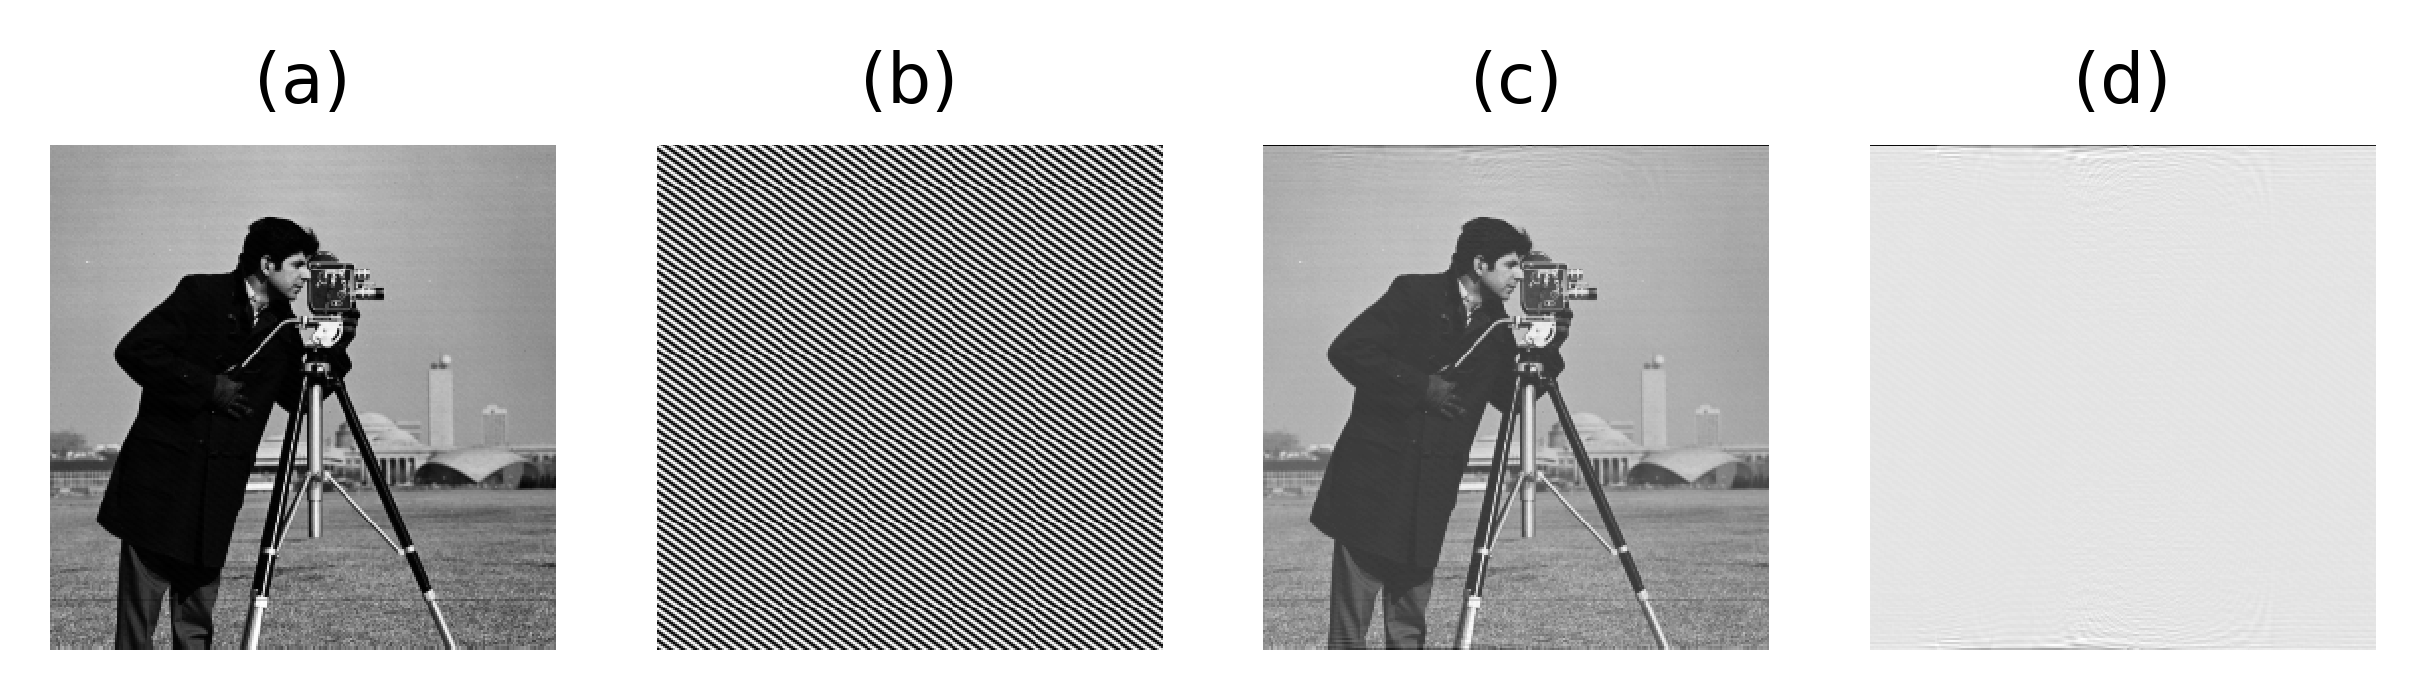
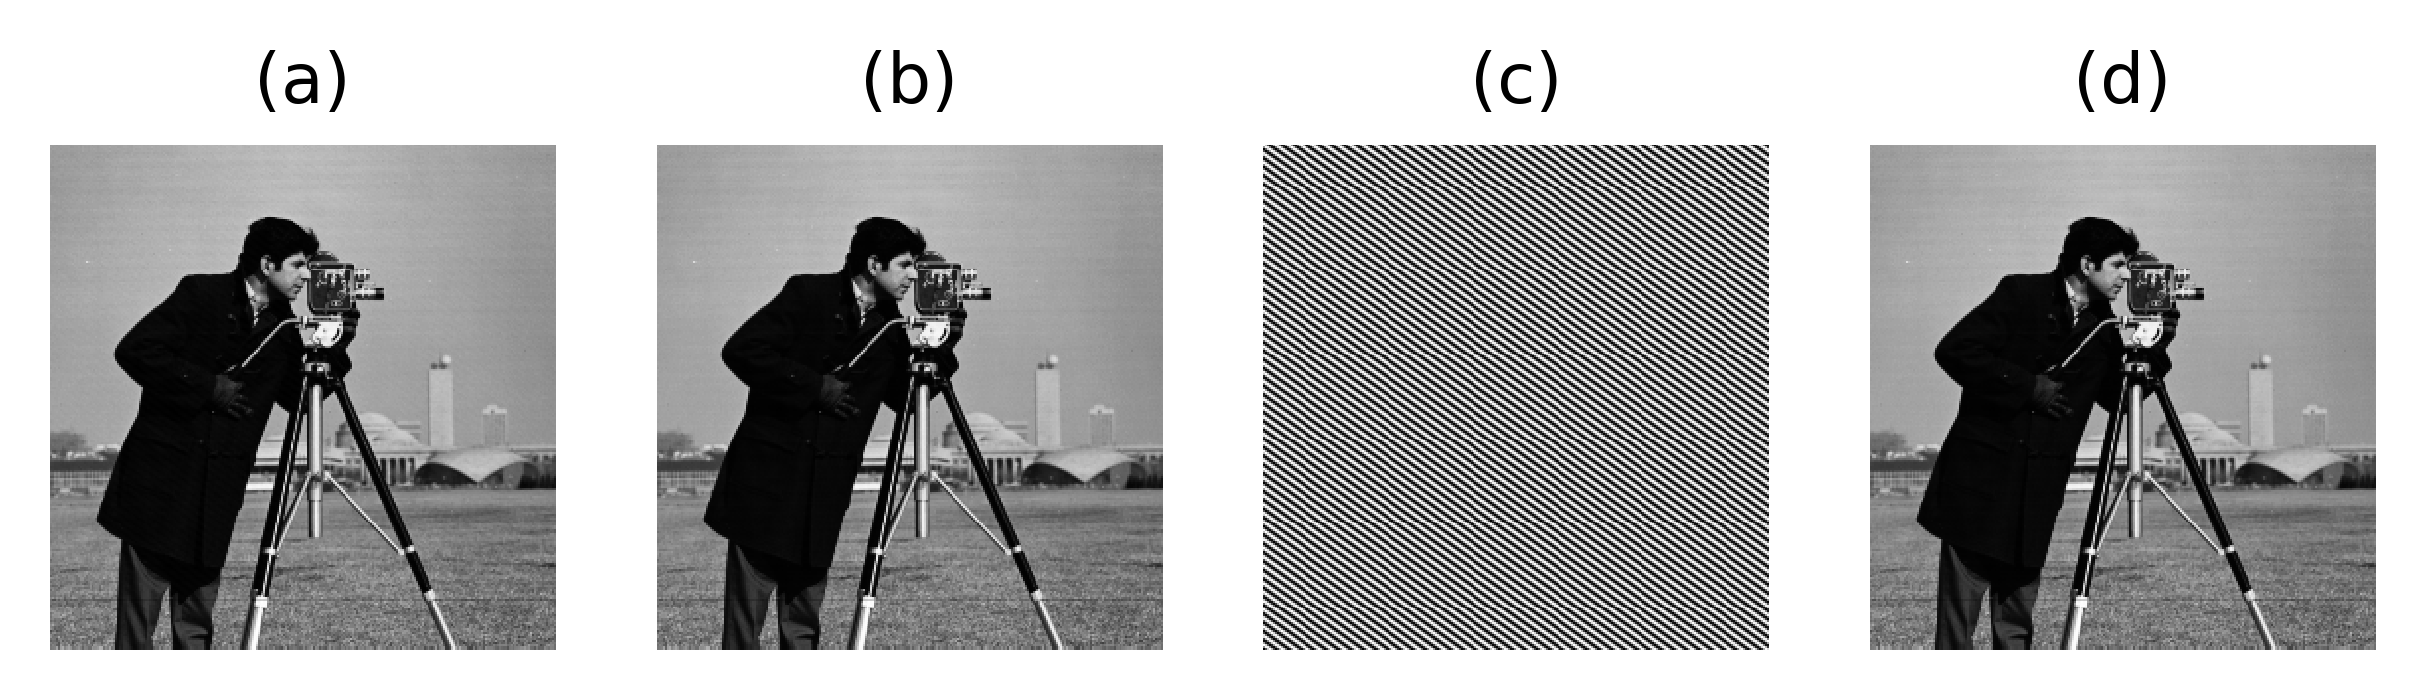
all done

diff --git a/src/main.py b/src/main.py
@@ -334,6 +334,10 @@ def addValue(img, func):
 
     return res
 
+def function(img, v,w, a = 1):
+    addcos = coswave(a,v,w)
+    return addValue(img, addcos.func)    
+
 
 def removePlanarWaves(img,v,w, a=1):
     '''
@@ -373,7 +377,7 @@ def removePlanarWaves(img,v,w, a=1):
     powerRes = np.subtract(powerImg, powerWaves)
     
     # revert transformation
-    result = fftpack.ifft(powerRes)
+    result = fftpack.ifft2(powerRes)
     
     return result
     
@@ -391,7 +395,7 @@ def exer3(path):
     '''
        
     # parameters used in the a * cos(v*x+ w*y) function in the transformation
-    a = 10 
+    a = 1 
     v = 30
     w = 1
          
@@ -445,22 +449,26 @@ def exer3(path):
 
     removedPlanar = removePlanarWaves(imgtransformed, v, w)
 
+
+    realRemovedPlanarorig = np.real(removedPlanar)
+
+
     realRemovedPlanar = np.real(removedPlanar)
 
     print(realRemovedPlanar)
 
     lower0= realRemovedPlanar - (np.min(realRemovedPlanar))
 
-    realRemovedPlanar = 255 * (lower0/np.max(lower0))
+    realRemovedPlanar = (lower0/np.max(lower0))
 
     print(realRemovedPlanar)
 
+    realRemovedPlanar = realRemovedPlanarorig
 
-    diffbefore = imgtransformed - img
-
+    
     diffwaves =  imgtransformed - realRemovedPlanar
  
-    difforiginal = diffwaves - img
+    #difforiginal = img - diffwaves
 
     
     
@@ -470,13 +478,13 @@ def exer3(path):
     sip3.plotImage(gca(), imgtransformed, "(a)", gray=True)
 
     subplot(1,4,2)
-    sip3.plotImage(gca(), diffbefore, "(b)", gray=True)
+    sip3.plotImage(gca(), realRemovedPlanarorig, "(b)", gray=True)
 
     subplot(1,4,3)
     sip3.plotImage(gca(), diffwaves, "(c)", gray=True)
 
     subplot(1,4,4)
-    sip3.plotImage(gca(), difforiginal, "(d)", gray=True)
+    sip3.plotImage(gca(), img, "(d)", gray=True)
 
     sip3.savefig1(path + '2-3-reverseWaves' + ",a={},v={},w={}".format(a,v,w) + ".png")
     close()
